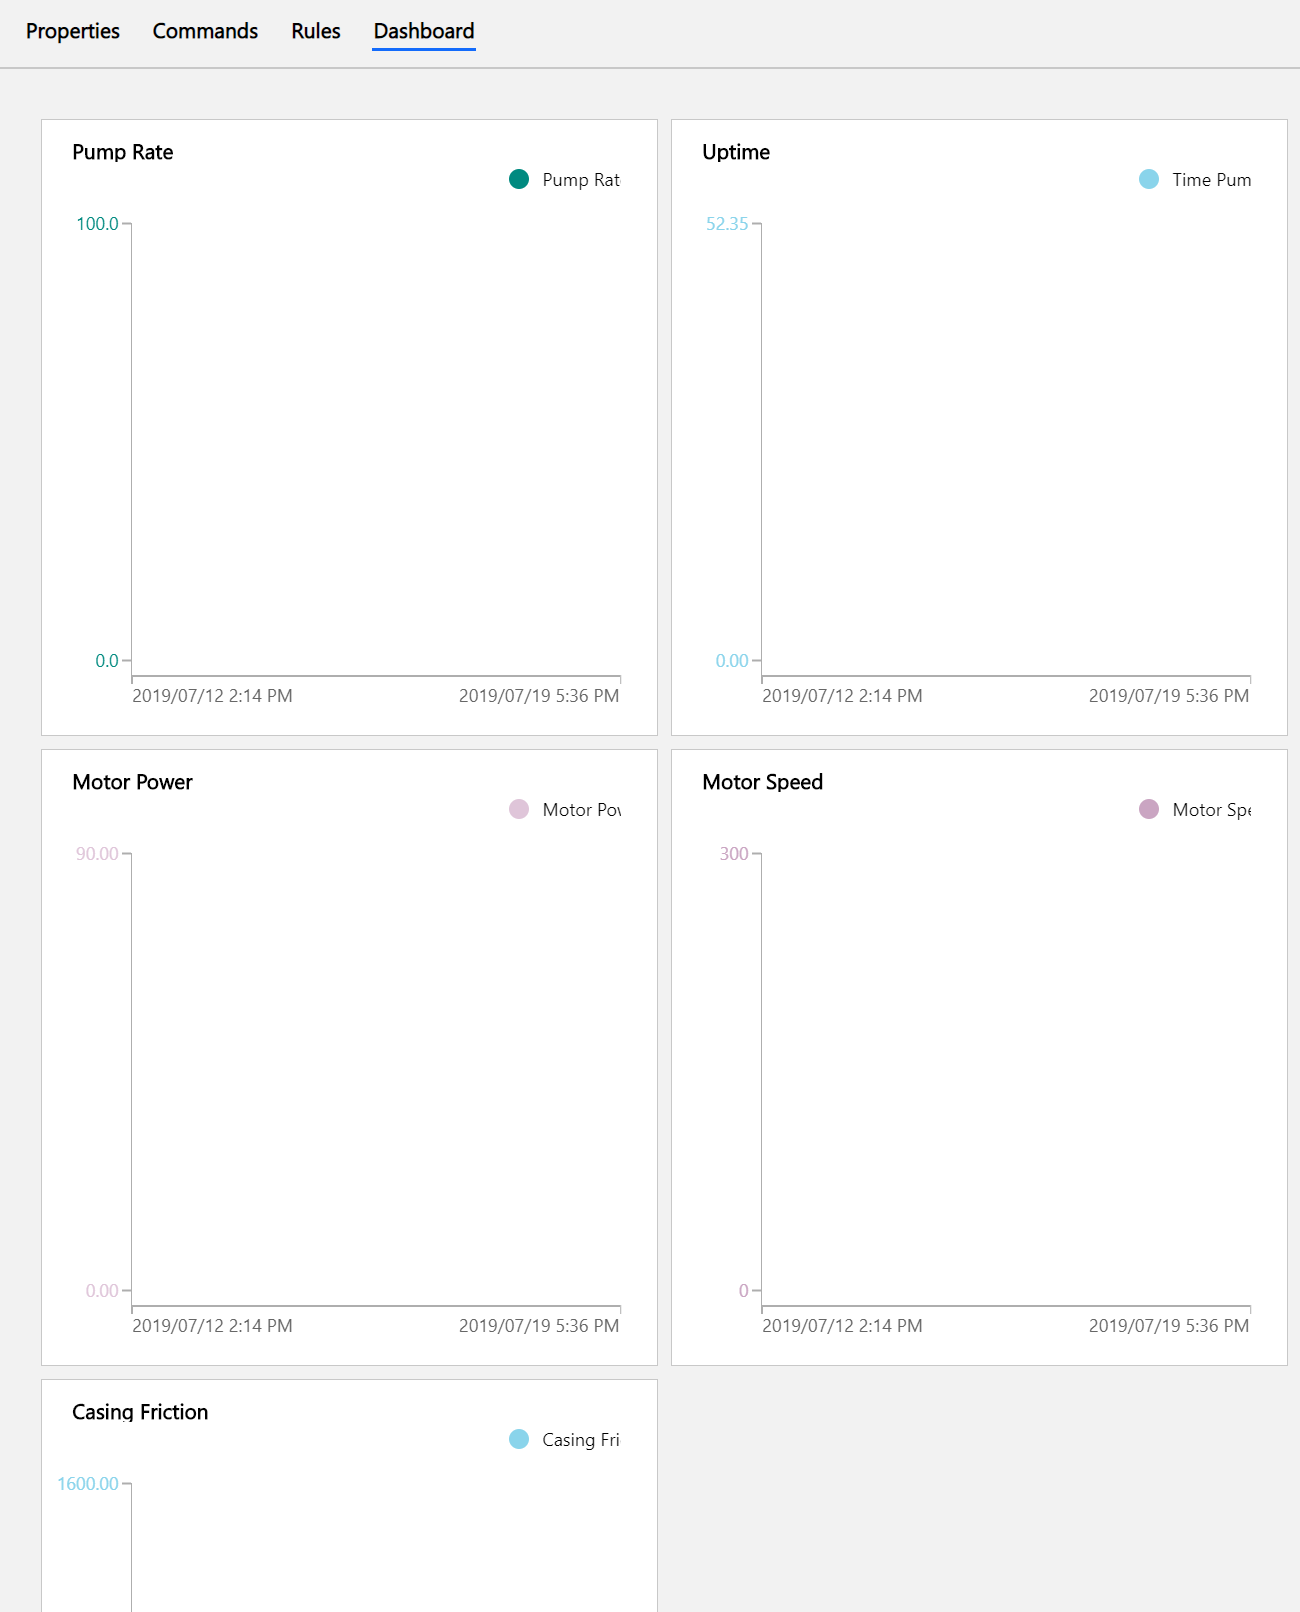
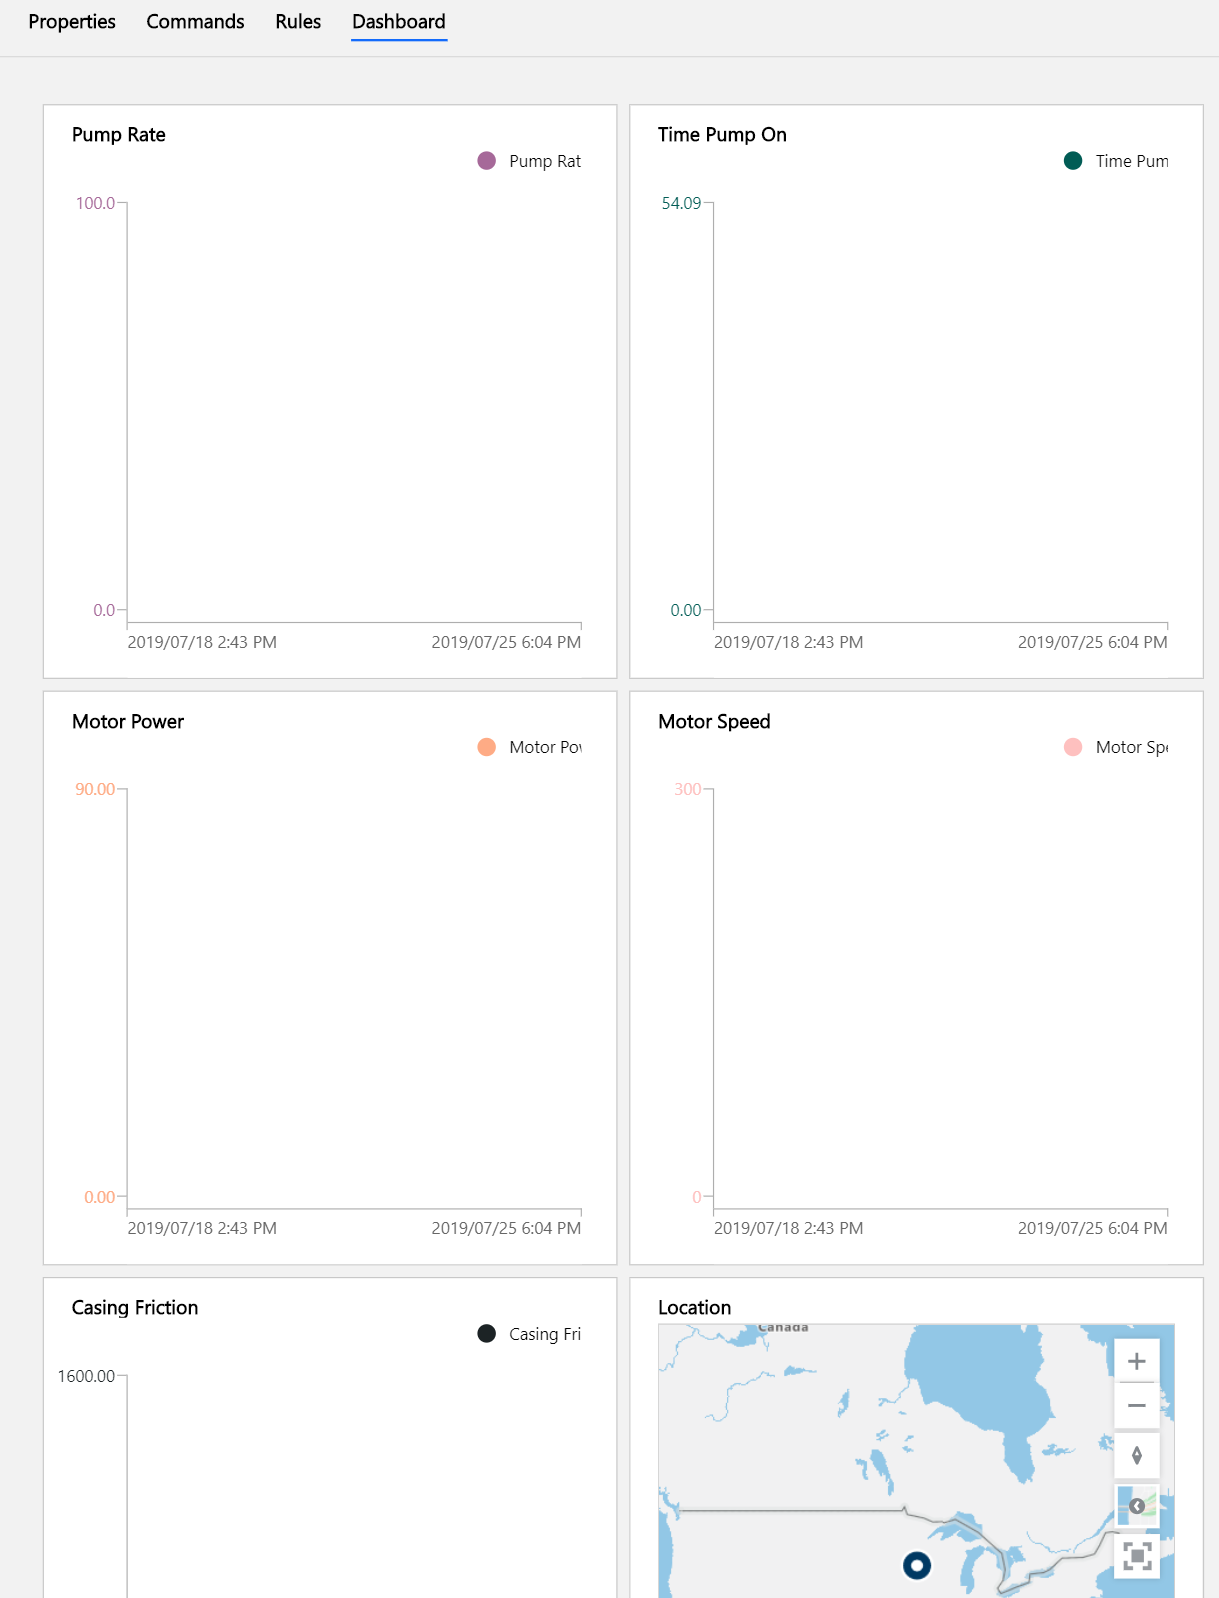
updated HOL with location device property

diff --git a/Hands-on lab/HOL step-by step - Title xxx.md b/Hands-on lab/HOL step-by step - Title xxx.md
@@ -183,7 +183,7 @@ The telemetry being reported by the Fabrikam rod pumps are as follows, we will b
 
 ![Power State](../Media/power-state-definition.png)
 
-9. In the device template, Properties are read-only metadata associated with the equipment. For our template, we will expect a property for Serial Number and IP Address. From the top menu, select *Properties*, then *Device Property* from the left-hand menu. 
+9. In the device template, Properties are read-only metadata associated with the equipment. For our template, we will expect a property for Serial Number, IP Address, and the geographic location of the pump. From the top menu, select *Properties*, then *Device Property* from the left-hand menu. 
         
 ![Device Properties Menu](../Media/device-properties-menu.png)
 
@@ -195,8 +195,7 @@ The telemetry being reported by the Fabrikam rod pumps are as follows, we will b
 | ------------- | ------------ | --------- | --------------------------------- |
 | Serial Number | SerialNumber | text      | The Serial Number of the rod pump |
 | IP Address    | IPAddress    | text      | The IP address of the rod pump    |
-
-![Properties Completed](../Media/properties-complete.png) 
+| Pump Location | Location     | location  | The geo. location of the rod pump |
 
 11.  Operators and field workers will want to be able to turn on and off the pumps remotely. In order to do this we will define commands. Select the *Commands* tab, and press the *New* button to add a new command.
 
@@ -220,16 +219,13 @@ The telemetry being reported by the Fabrikam rod pumps are as follows, we will b
 
 ![Telemetry Rule Form](../Media/define-new-rule.png)
 
-| Name                           | Condition # | Measurement     | Aggregation | Agg. Time Window | Operator        | Threshold |
-|--------------------------------|-------------|-----------------|-------------|------------------|-----------------|-----------|
-| Abnormal Motor Power (kW)      | 1           | Motor Power     | Average     | 5 minutes        | is less than    | 30        |
-|                                | 2           | Motor Power     | Average     | 5 mintues        | is greater than | 100       |
-| Abnormal Motor Speed (RPM)     | 1           | Motor Speed     | Average     | 5 minutes        | is less than    | 80        |
-|                                | 2           | Motor Speed     | Average     | 5 minutes        | is greater than | 300       |
-| Abnormal Casing Friction (PSI) | 1           | Casing Friction | Average     | 5 minutes        | is less than    | 800       |
-|                                | 2           | Casing Friction | Average     | 5 minutes        | is greater than | 1800      |
-| Abnormal Pump Rate (SPM)            | 1           | Pump Rate       | Average     | 5 minutes        | is less than    | 10        |
-|                                | 2           | Pump Rate       | Average     | 5 minutes        | is greater than | 80        |
+| Name                           | Measurement     | Aggregation | Agg. Time Window | Operator        | Threshold |
+|--------------------------------|-----------------|-------------|------------------|-----------------|-----------|
+| Low Motor Power (kW)           | Motor Power     | Average     | 5 minutes        | is less than    | 30        |
+| Low Motor Speed (RPM)          | Motor Speed     | Average     | 5 minutes        | is less than    | 80        |
+| Low Casing Friction (PSI)      | Casing Friction | Average     | 5 minutes        | is less than    | 830       |
+| Low Pump Rate (SPM)            | Pump Rate       | Average     | 5 minutes        | is less than    | 25        |
+| Low Time Pump On (Minutes)     | TimePumpOn      | Average     | 5 minutes        | is less than    | 65        |
 
 15. Now, we can define the dashboard by pressing the *Dashboard* option in the top menu, and selecting *Line Chart* from the left-hand menu. Define a line chart for each of the telemetry fields (PumpRate, TimePumpOn, MotorPower, MotorSpeed, CasingFriction) - keeping all the default values:
 
@@ -237,13 +233,21 @@ The telemetry being reported by the Fabrikam rod pumps are as follows, we will b
 
 ![Line Chart Form](../Media/line-chart-form.png)
 
+16. A map is also available for display on the dashboard. Remaining on the Dashboard tab, select *Map*.
+
+![Dashboard Map](../Media/dashboard-map.png)
+
+17. Fill out the values for the map settings as follows:
+
+![Dashboard Map Form](../Media/dashboard-map-settings.png)
+
 ![Dashboard Charts Definition](../Media/dashboard-charts-definition.png)
 
-16. Finally, we can add an image to represent the equipment. Press on the circle icon left of the template name, and select an image file. The image used in this lab can be found on [PixaBay](https://pixabay.com/photos/pumpjack-texas-oil-rig-pump-591934/).
+18. Finally, we can add an image to represent the equipment. Press on the circle icon left of the template name, and select an image file. The image used in this lab can be found on [PixaBay](https://pixabay.com/photos/pumpjack-texas-oil-rig-pump-591934/).
 
 ![Device Template Thumbnail](../Media/device-template-thumbnail.png)
 
-17. Review the application template by viewing its simulated device. IoT Central automatically creates a simulated device based on the template you've created. From the left-hand menu, select *Device Explorer*. In this list you will see a simulated device for the template that we have just created. Click the link for this simulated device, the charts will show a sampling of simulated data. 
+19. Review the application template by viewing its simulated device. IoT Central automatically creates a simulated device based on the template you've created. From the left-hand menu, select *Device Explorer*. In this list you will see a simulated device for the template that we have just created. Click the link for this simulated device, the charts will show a sampling of simulated data. 
 
 ![Device List - Simulated](../Media/iot-central-simulated-rod-pump.png)
 
